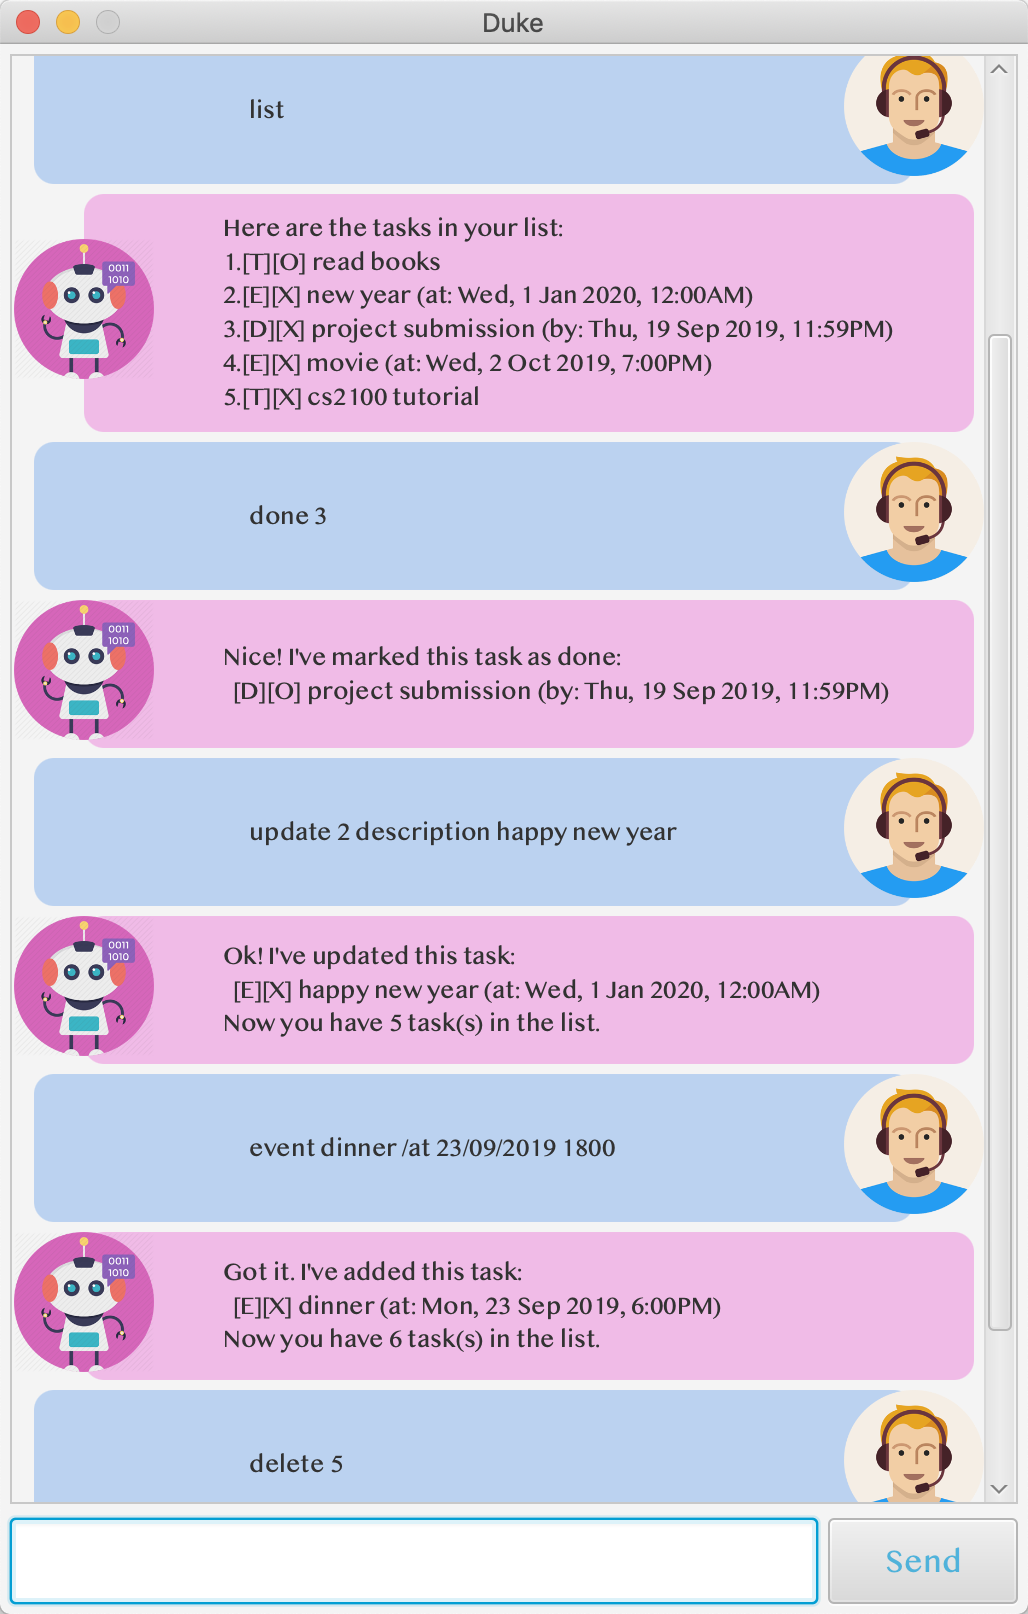
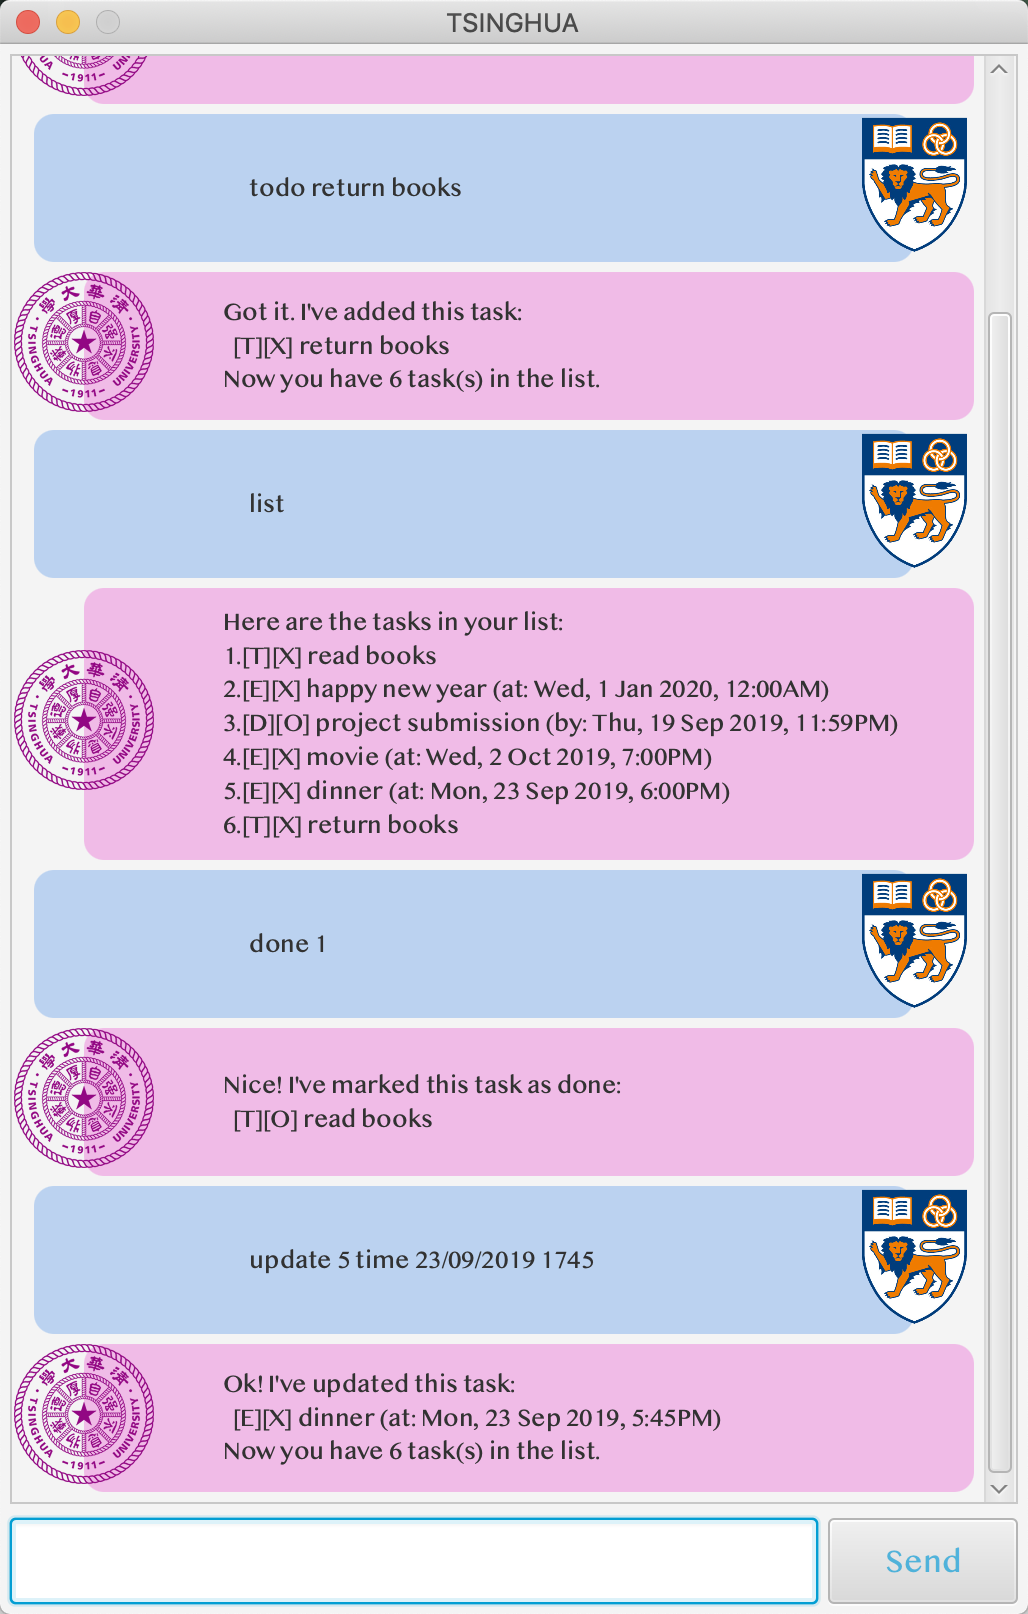
Change Duke to Tsinghua

diff --git a/src/main/java/duke/Duke.java b/src/main/java/duke/Duke.java
@@ -120,8 +120,12 @@ public class Duke {
      */
     public String getResponse(String input) {
         try {
-            Command c = Parser.parse(input);
-            return c.executeGui(tasks, ui, storage);
+            if (input.equals("Who's Asia No.1 university?")) {
+                return "You";
+            } else {
+                Command c = Parser.parse(input);
+                return c.executeGui(tasks, ui, storage);
+            }
         } catch (DukeException e) {
             return ui.showErrorGui(e.getMessage());
         }

diff --git a/src/main/java/duke/gui/Main.java b/src/main/java/duke/gui/Main.java
@@ -33,7 +33,7 @@ public class Main extends Application {
             AnchorPane ap = fxmlLoader.load();
             Scene scene = new Scene(ap);
             stage.setScene(scene);
-            stage.setTitle("Duke");
+            stage.setTitle("TSINGHUA");
             stage.setResizable(false);
             fxmlLoader.<MainWindow>getController().setDuke(duke);
             stage.show();

diff --git a/src/main/java/duke/core/Ui.java b/src/main/java/duke/core/Ui.java
@@ -43,8 +43,8 @@ public class Ui {
      * @return A string that represents the welcome message.
      */
     public String showWelcomeGui() {
-        return "Hello from DUKE\n"
-                    + "\nHello! I'm Duke\nWhat can I do for you?";
+        return "Hello from TSINGHUA\n"
+                    + "\nHello! I'm Tsinghua : )\nWhat can I do for you?";
     }
 
     /**
